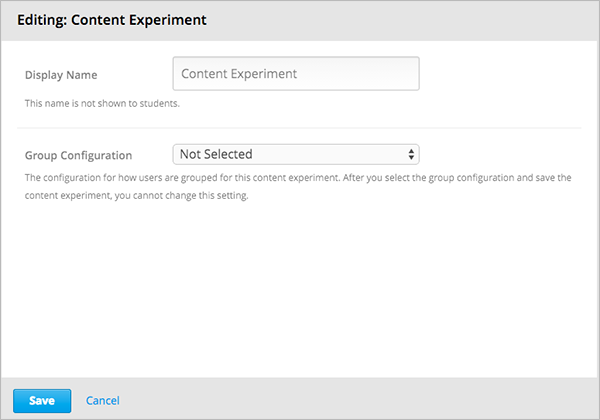
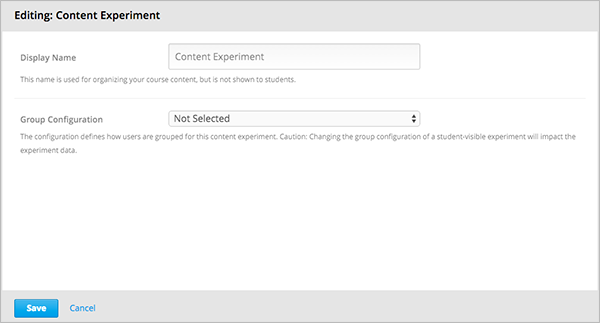
Changing Group Configurations

diff --git a/docs/en_us/course_authors/source/creating_content/content_experiments.rst b/docs/en_us/course_authors/source/creating_content/content_experiments.rst
@@ -79,11 +79,12 @@ To enable content experiments in your course, you add ``split_test`` to the
 Specify Group Configurations
 ****************************************
 
-Before you can create content experiments, you must define group configurations.
+Before you can create content experiments, you must specify group
+configurations.
 
-A group configuration defines how many groups of students are in
-an experiment. You can have any number of group configurations in your course.
-When you create a content experiment, you select the group configuration to use.
+A group configuration defines how many groups of students are in an experiment.
+You can have any number of group configurations in your course. When you create
+a content experiment, you select the group configuration to use.
 
 For example, you may want to do one content experiment that presents either a
 video or a reading assignment to your students, and another content experiment
@@ -267,13 +268,16 @@ Configure a Content Experiment in Studio
 After you `Enable Content Experiments`_ and `Specify Group
 Configurations`_, you can configure content experiments.
 
-You can add a content experiment in a unit or container page. In Studio, you create and view content for all groups in the content experiments in a container page for the experiment, as shown in `Create Content for Groups in the Content Experiment`_.
+You can add a content experiment in a unit or container page. In Studio, you
+create and view content for all groups in the content experiment in a container
+page for the experiment, as shown in `Create Content for Groups in the Content
+Experiment`_.
 
-When a student views the unit with the content experiment, she has no indication
-there is a content experiment in the unit, and the content experiment display
-name is not shown. She sees only the content that you configure for the group
-she is assigned to. To the student, the unit with the content experiment is no
-different than any other unit.
+When a student views the unit with the content experiment, she has no
+indication there is a content experiment in the unit, and the content
+experiment display name is not shown. She sees only the content that you
+configure for the group she is assigned to. To the student, the unit with the
+content experiment is no different than any other unit.
 
 
 To configure a content experiment in Studio, you:
@@ -312,23 +316,23 @@ Create the Content Experiment
 
 #. Click **Save**.
 
-The content experiment is displayed in a unit page as a component that contains
-other components. See :ref:`Components that Contain Other Components` for more
+The content experiment is displayed as a component that contains other
+components. See :ref:`Components that Contain Other Components` for more
 information.
 
 You can now create content for the groups in the experiment.
 
-================================================================
+=====================================================
 Create Content for Groups in the Content Experiment
-================================================================
+=====================================================
    
 After you select a group configuration, in the content experiment component
 click **View**.
 
 The content experiment page that opens automatically includes a container for
-each group that is defined in the group configuration you selected. For example,
-if you select a group configuration that defines Group A and Group B, you see
-the following page:
+each group that is defined in the group configuration you selected. For
+example, if you select a group configuration that defines Group A and Group B,
+you see the following page:
 
 .. image:: ../Images/content_experiment_container.png
  :alt: The content experiment page with two groups
@@ -347,6 +351,43 @@ For example, you can add an HTML component and a video to Group A:
   experiment.  For example, if one group has a video and another group has no
   content, you can analyze the effect of the video on student performance.
 
+
+================================
+Change the Group Configuration
+================================
+
+You can change the group configuration for a content experiment. When you
+change the group configuration, you must add components to the new groups. You
+can add the components in the previous groups, as well as create new
+components.
+
+.. warning::
+  Changing the group configuration of a student-visible experiment will impact
+  the experiment data.
+
+To change the group configuration:
+
+#. In a content experiment component, click **Edit**.
+
+   .. image:: ../Images/content_experiment_editor_group2.png
+    :alt: The content experiment editor with a group configuration selected
+
+#. Select a different group configuration.
+
+#. Click **Save**.
+
+#. You must now add components to the new groups in the experiment. Click
+   **View** to open the content experiment.
+
+   You see that groups for the new configuration are empty, and any components
+   that you had added to groups in the previous configuration are now moved to
+   a section called **Inactive Groups**.
+
+   .. image:: ../Images/inactive_groups.png
+    :alt: Components in inactive groups
+
+#. Drag and drop components from the Inactive Groups into the new groups as
+   needed. You can also create new components in the new groups.
 
 
 .. _Configure the Content Experiment in XML:
